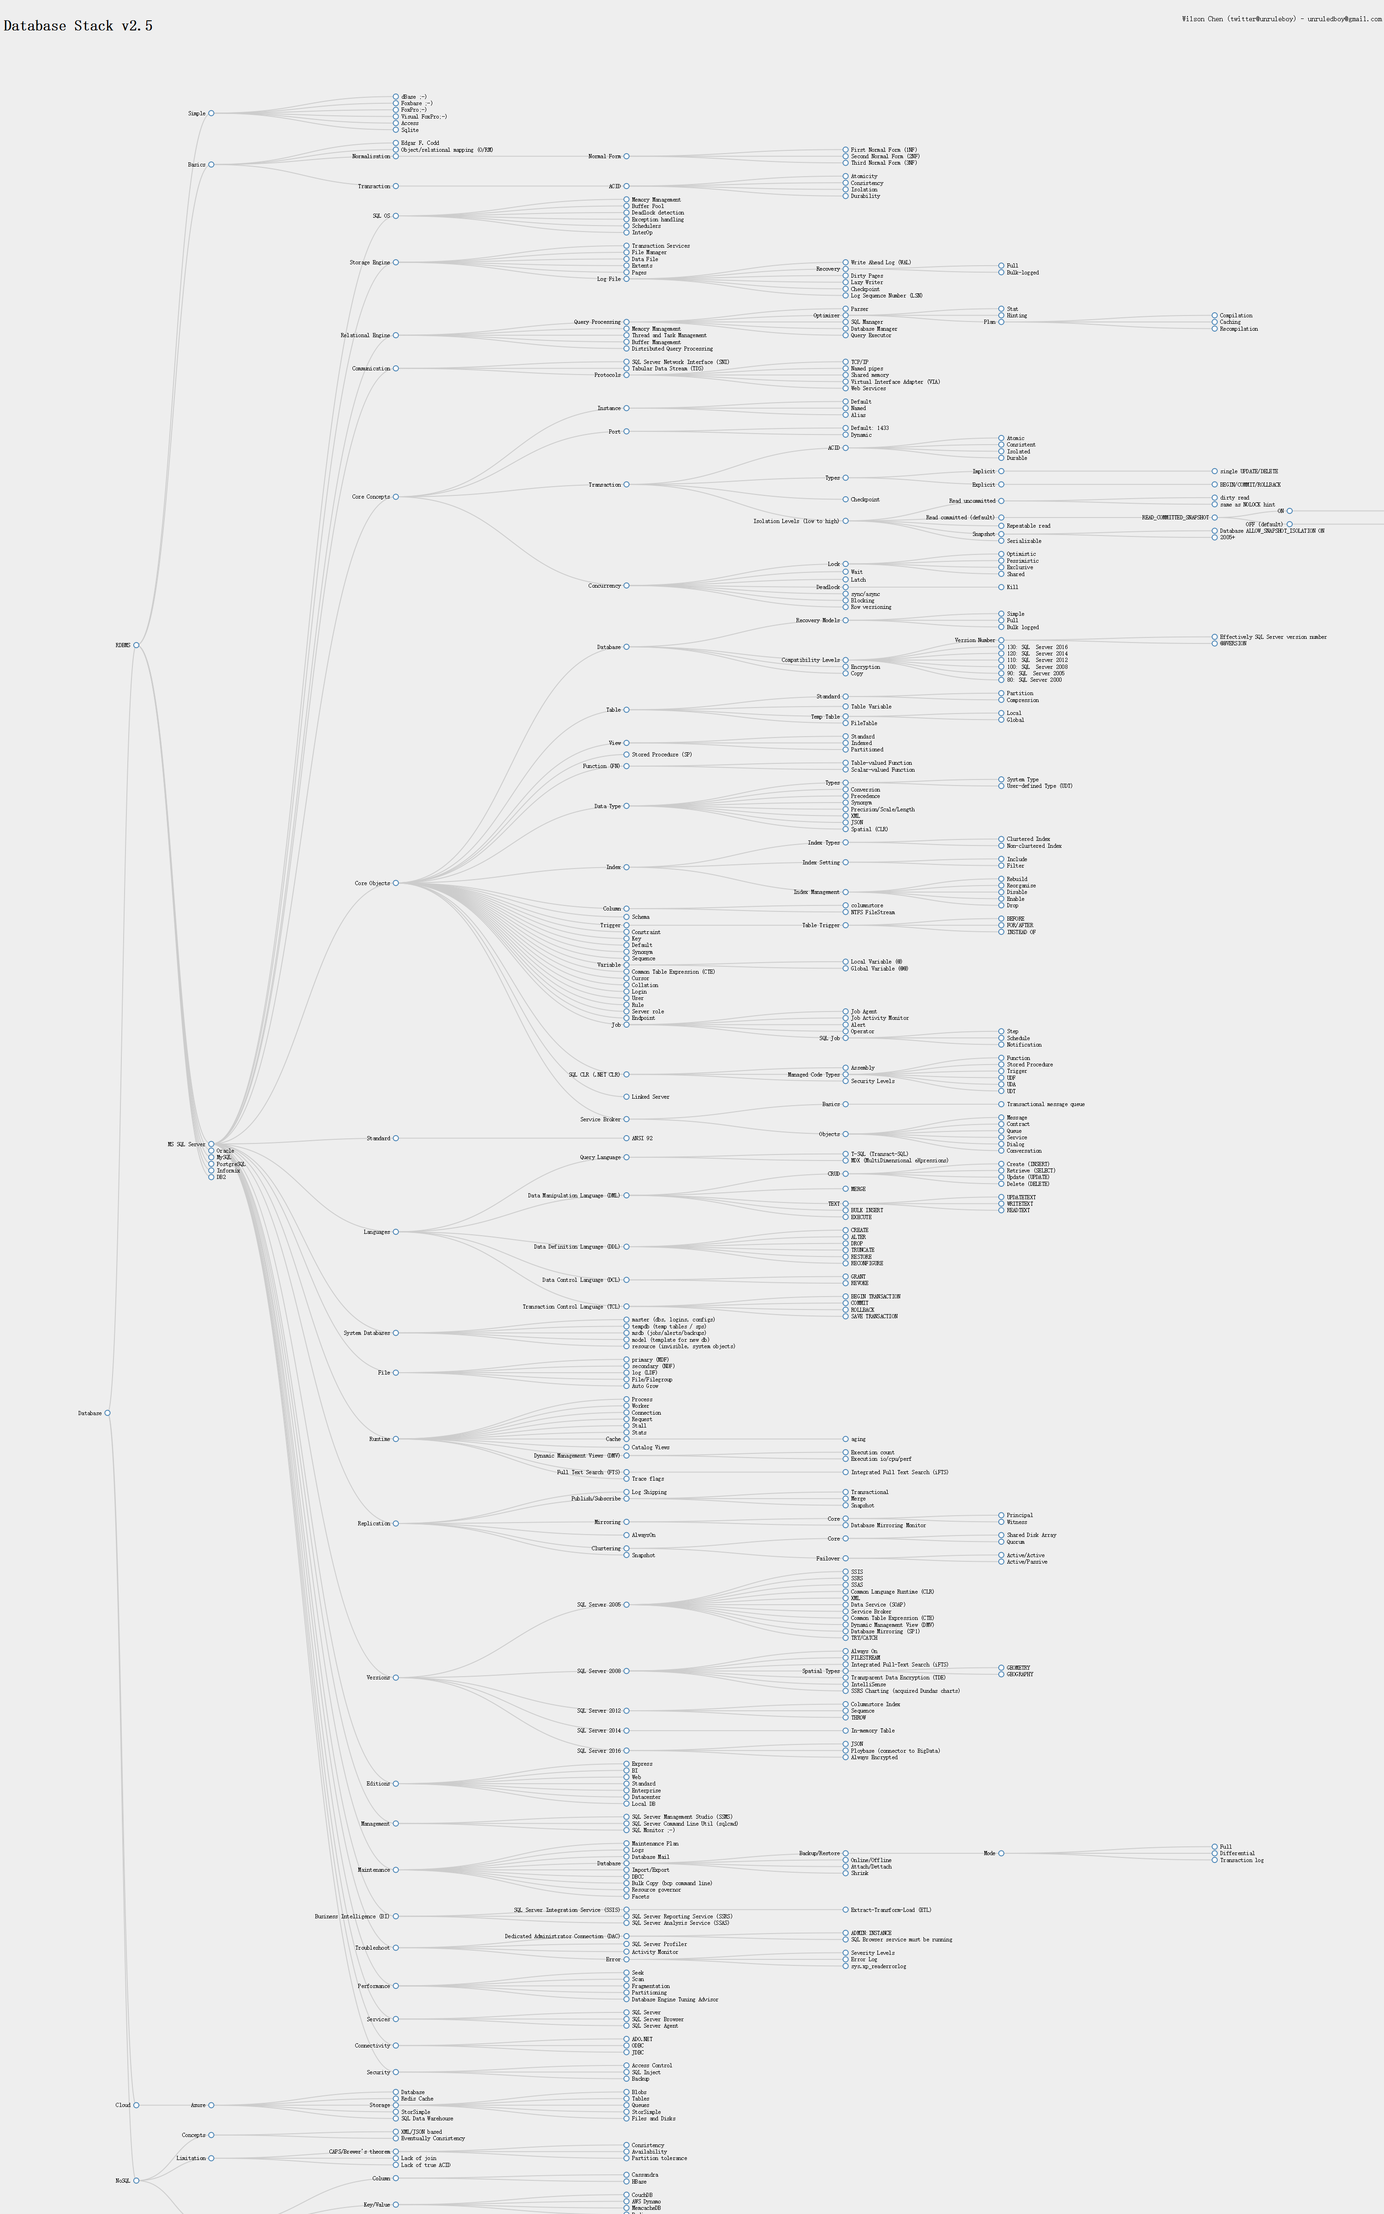
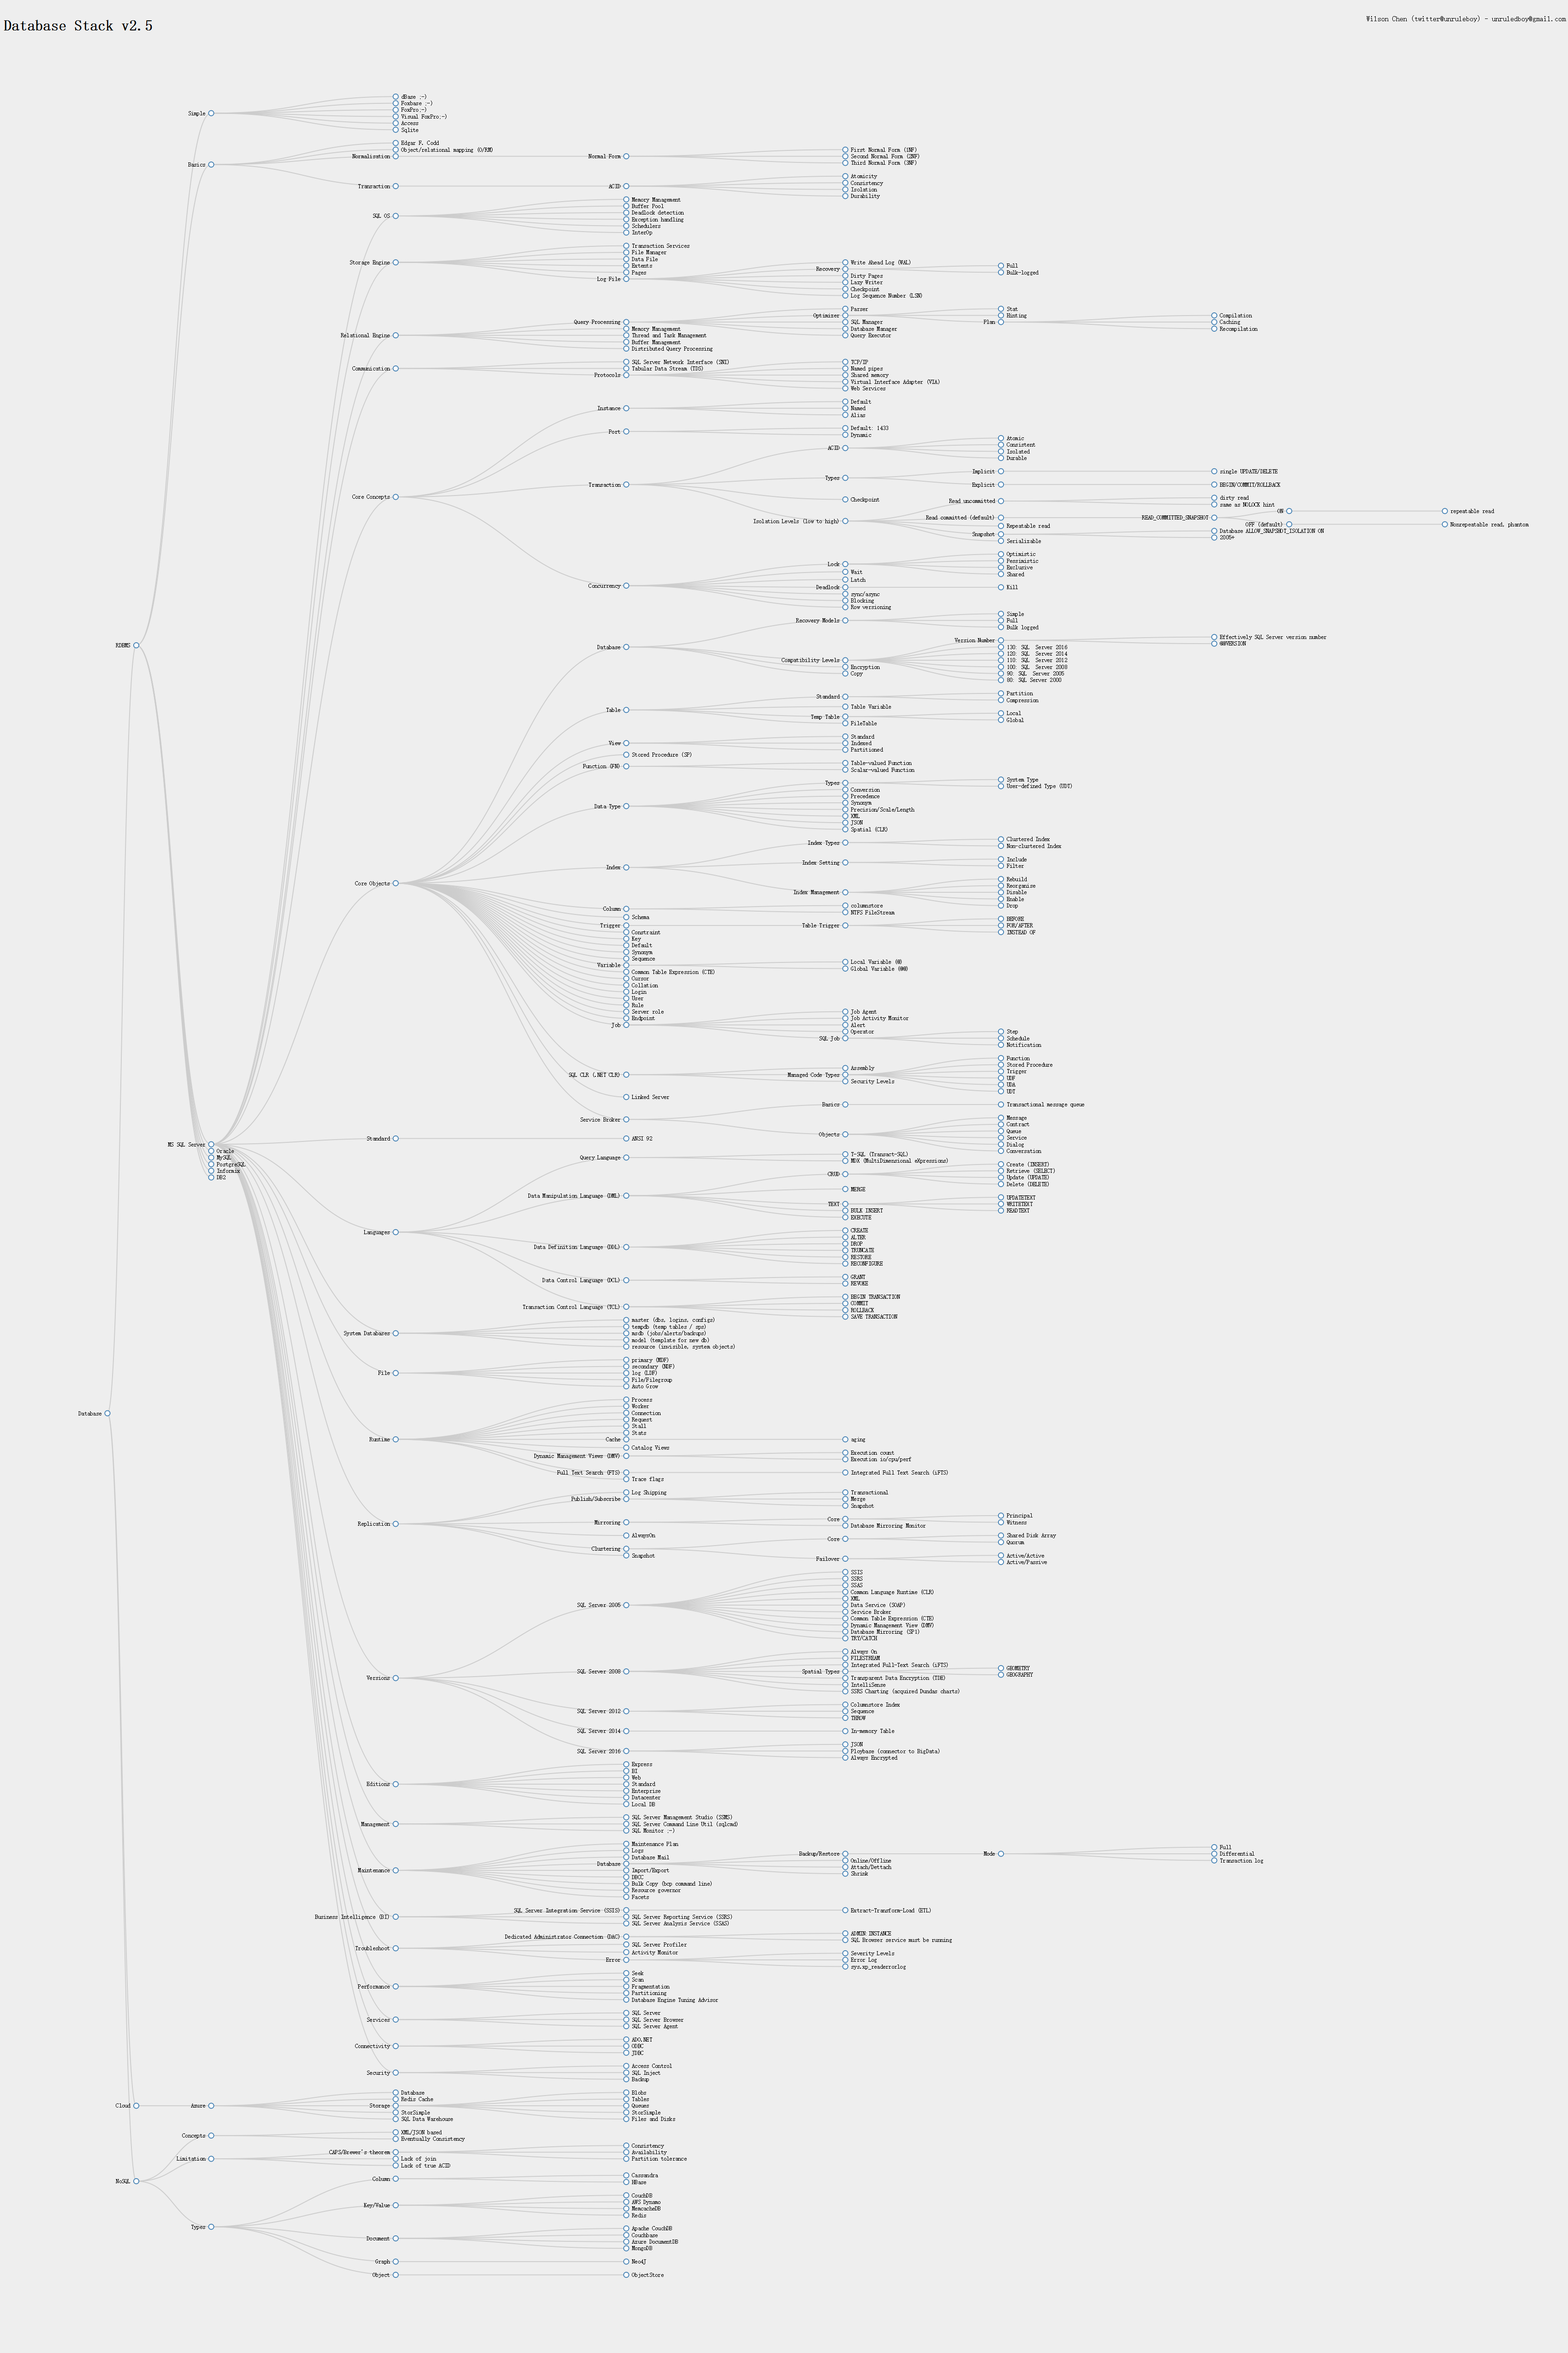
fixed preview

diff --git a/index.js b/index.js
@@ -12,8 +12,8 @@ var queueReady = ["server"];
 var port = process.env.PORT || 3000;
 var httpServer = "http://127.0.0.1:" + port + "/";
 
-var pageWidth = 3000; // Magic number!
-var pageHeight = 4800;
+var pageWidth = 3400; // Magic number!
+var pageHeight = 5100;
 
 String.prototype.repeat = function(count) {
     return new Array(count + 1).join(this);
